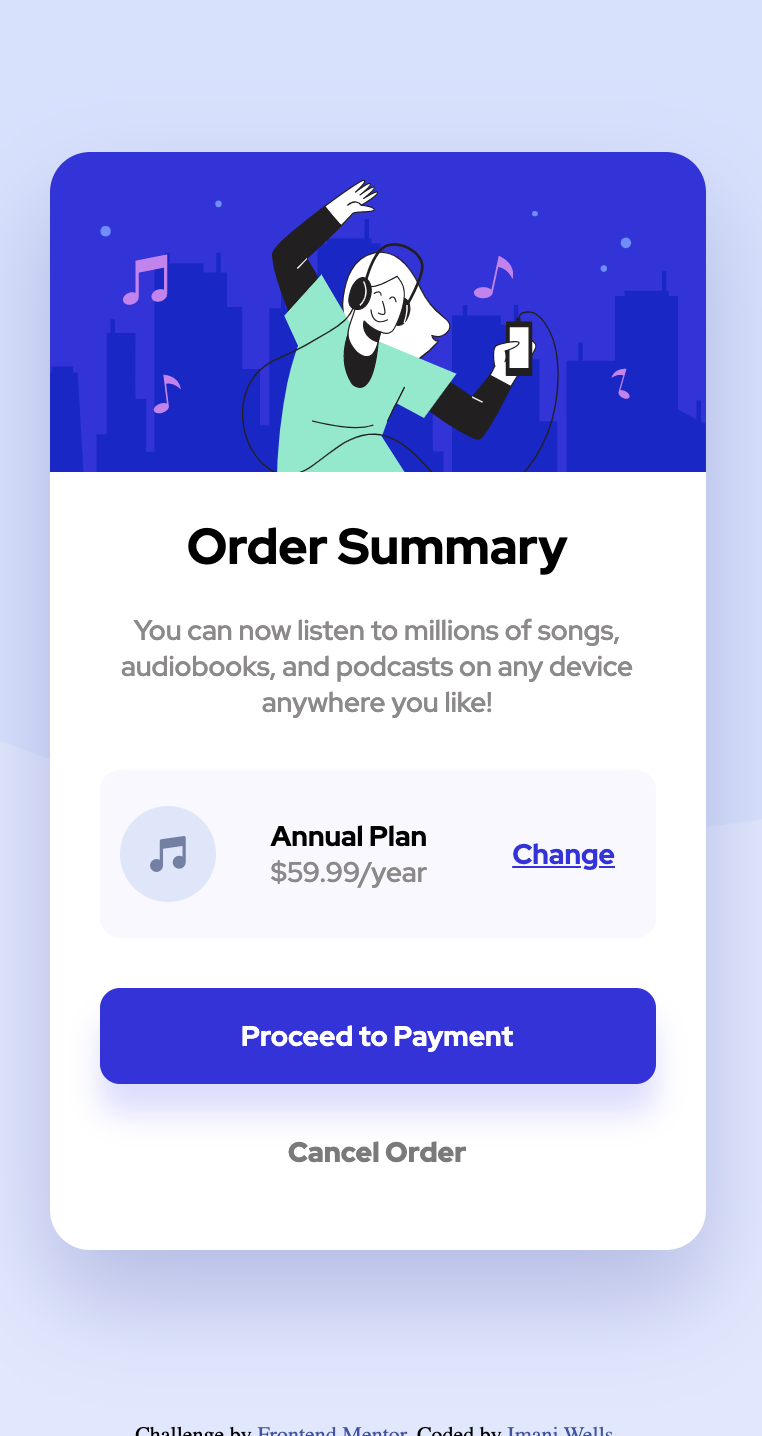
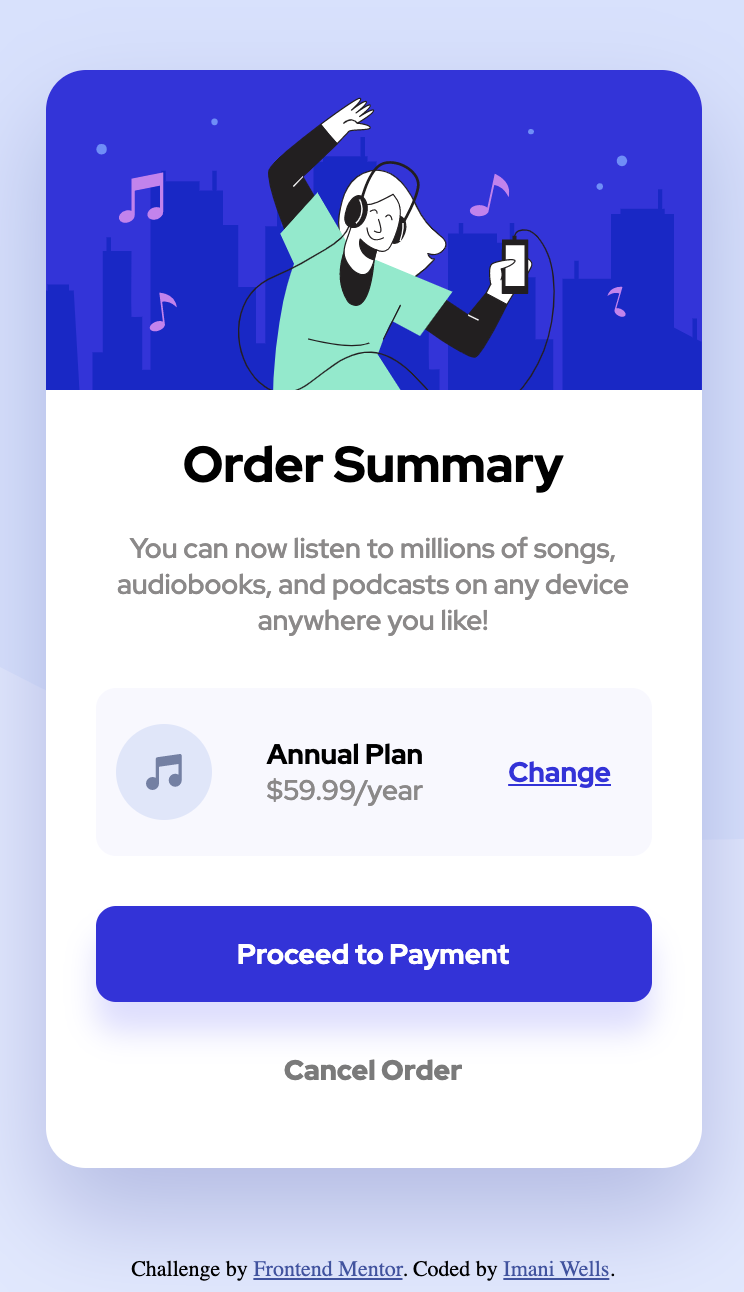
added width to screenshots in readme file

diff --git a/Order-Summary/README.md b/Order-Summary/README.md
@@ -19,8 +19,8 @@ Users should be able to:
 - See hover states for interactive elements
 
 ### Screenshot
-<img src="images/screenshot-desktop.png" alt="Screen shot of desktop development for Order Summary design"/>
+<img src="images/screenshot-desktop.png" alt="Screen shot of desktop development for Order Summary design" width="700"/>
 
-<img src="images/screenshot-mobile.png" alt="Screen shot of mobile development for Order Summary design"/>
+<img src="images/screenshot-mobile.png" alt="Screen shot of mobile development for Order Summary design" width="375"/>
 
 
